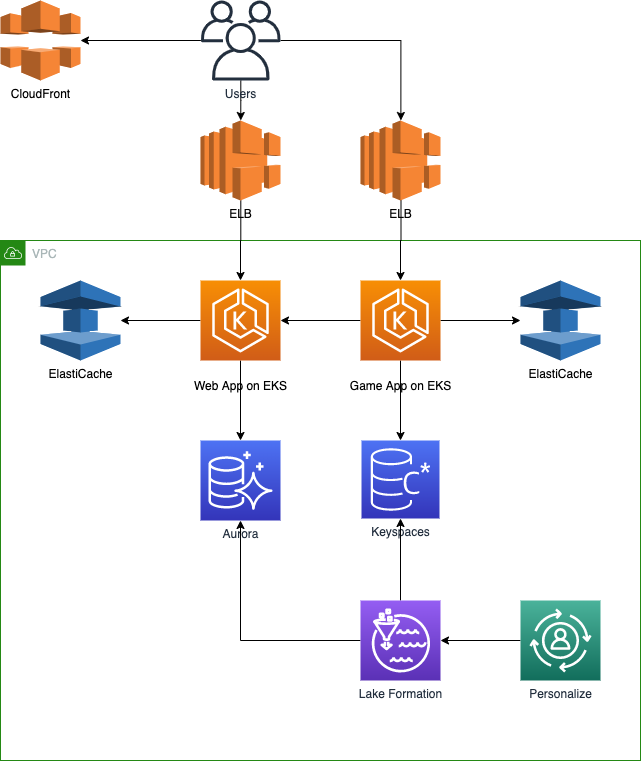
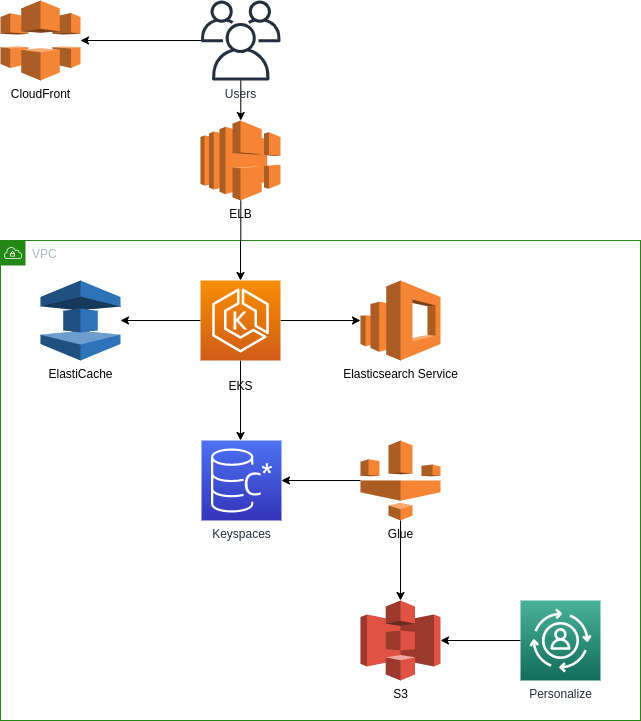
...

diff --git a/plan-a/README.md b/plan-a/README.md
@@ -27,132 +27,104 @@ This is only for one region, like China. If they decide to launch other regions,
 
 ![img](./aws-interview-architecture-overview.png)
 
-![img](./aws-interview-architecture-database.png)
-
 ## Design Details 
 
-### Aurora for web app
+### Keyspaces
 
-Description:
-- Transation data, ex: orders, payments
-- Write less than read
-- Compatible with game v1 mysql database
-- Data Migration easy
-- Low threshold for mysql developers
-- We can setup more replicas for scaling read capacity and performance in one region
+![img](./aws-interview-architecture-keyspaces.png)
 
-Benefits:
-- High Performance and Scalability
-  - Get 5X the throughput of standard MySQL and 3X the throughput of standard PostgreSQL.
-  - This performance is on par with commercial databases, at 1/10th the cost.
-  - You can easily scale your database deployment up and down from smaller to larger instance types as your needs change, or let Aurora Serverless handle scaling automatically for you.
-  - To scale read capacity and performance, you can add up to 15 low latency read replicas across three Availability Zones.
-  - Amazon Aurora automatically grows storage as needed, up to 64TB per database instance.
-- High Availability and Durability
-  - Amazon Aurora is designed to offer greater than 99.99% availability, replicating 6 copies of your data across 3 Availability Zones and backing up your data continuously to Amazon S3.
-  - It transparently recovers from physical storage failures; instance failover typically takes less than 30 seconds.
-  - You can also backtrack within seconds to a previous point in time, to recover from user errors. With Global Database, a single Aurora database can span multiple AWS regions to enable fast local reads and quick disaster recovery.
-- Highly Secure
-  - Amazon Aurora provides multiple levels of security for your database. 
-  - These include network isolation using Amazon VPC, encryption at rest using keys you create and control through AWS Key Management Service (KMS) and encryption of data in transit using SSL. 
-  - On an encrypted Amazon Aurora instance, data in the underlying storage is encrypted, as are the automated backups, snapshots, and replicas in the same cluster.
-- MySQL and PostgreSQL Compatible
-  - The Amazon Aurora database engine is fully compatible with existing MySQL and PostgreSQL open source databases, and adds compatibility for new releases regularly. 
-  - This means you can easily migrate MySQL or PostgreSQL databases to Aurora using standard MySQL or PostgreSQL import/export tools or snapshots. 
-  - It also means the code, applications, drivers, and tools you already use with your existing databases can be used with Amazon Aurora with little or no change.
-- Fully Managed
-  - Amazon Aurora is fully managed by Amazon Relational Database Service (RDS). 
-  - You no longer need to worry about database management tasks such as hardware provisioning, software patching, setup, configuration, or backups. 
-  - Aurora automatically and continuously monitors and backs up your database to Amazon S3, enabling granular point-in-time recovery. 
-  - You can monitor database performance using Amazon CloudWatch, Enhanced Monitoring, or Performance Insights, an easy-to-use tool that helps you quickly detect performance problems.
-- Migration Support
-  - MySQL and PostgreSQL compatibility make Amazon Aurora a compelling target for database migrations to the cloud. If you're migrating from MySQL or PostgreSQL, see our migration documentation for a list of tools and options. To migrate from commercial database engines, you can use the AWS Database Migration Service for a secure migration with minimal downtime.
+QAs:
 
-### Keyspaces for game app data about 1 year
+Q: They would store various data in database such as metadata, transaction data, session data, log data etc. 
+- Yes
 
-Description:
-- High read and write throughputs
-- High concurrent access
-- We can setup multiple datacenters for scaling read/write capacity and performance in one region
-- We can set replication factor 3 or high each datacenter for HA
-- Repairing data local datacenter everyday
-- Repairing data across datacenters weekly
+Q: Most of the operation of the data is quite simple query, but also has some complex query.
+- For quite simple query, it must be query by primay key, although we can make secondary index.
+- For some complex query, we can make materialized view or wide table.
 
-Benefits:
-- Compatible with Apache Cassandra
-  - Amazon Keyspaces enables you to use the Cassandra Query Language (CQL) API code, Cassandra drivers, and developer tools that you already use. 
-  - Updating applications to use Amazon Keyspaces is as easy as changing the Cassandra hostname to the Amazon Keyspaces service endpoint.
-- No servers to manage
-  - You don’t need to provision, patch, or manage servers, so you can focus on building better applications.
-  - Tables can scale up and down automatically, and you can optimize the cost of reads and writes based on your application’s traffic patterns by choosing either on-demand or provisioned capacity mode.
-- Performance at scale
-  - Consistent, single-digit-millisecond response times at any scale. 
-  - Build applications with virtually unlimited throughput and storage that can serve thousands of requests per second without the need for capacity planning. 
-  - You can monitor performance by using Amazon CloudWatch to help keep your applications running smoothly.
-- Highly available and secure
-  - Amazon Keyspaces offers a 99.99% availability SLA within an AWS Region. 
-  - Tables are encrypted by default and replicated three times in multiple AWS Availability Zones for high availability. 
-  - You can create continuous table backups with hundreds of terabytes of data with no performance impact to your application, and recover to any point in time in the preceding 35 days.
+Q: The number of concurrent access to database could be very large and not stable.
+- We could setup a small datacenter at beginning for saving cost
+- We could scale datacenter by adding new nodes, cassandra will balance data by itself. 
+
+Q: They want the performance won’t be degrade even the size of data grows up rapidly.
+- We could do read/write splitting, ex: setup 2 datacenters, one for read, one for write.
+
+Q: The history data in v1.0 database should be migrated to v2.0 database.
+- We could use [COPY FROM](https://docs.datastax.com/en/ddaccql/doc/cql/cql_reference/cqlsh_commands/cqlshCopyFrom.html) to import data with csv format
+
+Q: Their games just need 1 year data in most case, the history data would be used for analytics.
+- We could set TTL for the data which need only 1 year
+
+Q: They would like to develop the global uniform game in the future. So they need the database can be launched in many regions to speed up the data access of the players in the world.
+- We could setup new datacenters in many regions
+- Set correct datacenter in your applications
+
+
+### Elasticsearch Service
+
+![img](./aws-interview-architecture-elasticsearch.png)
+
+QAs:
+
+Q: How to load streaming data into Elasticsearch
+- Application write directly
+- Logstash
+- Lambda
+
+```python
+import boto3
+import json
+import requests
+from requests_aws4auth import AWS4Auth
+
+region = '' # e.g. us-west-1
+service = 'es'
+credentials = boto3.Session().get_credentials()
+awsauth = AWS4Auth(credentials.access_key, credentials.secret_key, region, service, session_token=credentials.token)
+
+host = '' # the Amazon ES domain, including https://
+headers = { "Content-Type": "application/json" }
+
+def lambda_handler(event, context):
+  #print("Received event: " + json.dumps(event, indent=2))
+
+  index = event['index']
+  url = host + '/' + index + '/_doc/'
+
+  operation = event['httpMethod']
+  if operation == 'DELETE':
+    id = event['id']
+    return requests.delete(url + id, auth=awsauth)
+  else:
+    document = event['doc']
+    return requests.post(url, auth=awsauth, json=document, headers=headers)     
+```
+
+Q: Most of the operation of the data is quite simple query, but also has some complex query.
+- We could use elasticsearch for complex query, ex: query friends by name, age or email
+- We could only use keyword type for string in elasticsearch for query if we do not care about fulltext search.
+
 
 ### ElatiCache
 
-Benefits:
-- Extreme performance
-  - Amazon ElastiCache works as an in-memory data store and cache to support the most demanding applications requiring sub-millisecond response times. 
-  - By utilizing an end-to-end optimized stack running on customer dedicated nodes, Amazon ElastiCache provides secure, blazing fast performance.
-- Fully Managed
-  - You no longer need to perform management tasks such as hardware provisioning, software patching, setup, configuration, monitoring, failure recovery, and backups. 
-  - ElastiCache continuously monitors your clusters to keep your workloads up and running so that you can focus on higher value application development.
-- Scalable
-  - Amazon ElastiCache can scale-out, scale-in, and scale-up to meet fluctuating application demands. 
-  - Write and memory scaling is supported with sharding. 
-  - Replicas provide read scaling.
+QAs:
+
+Q: They would like to develop the global uniform game in the future. So they need the database can be launched in many regions to speed up the data access of the players in the world.
+- We could load some data (lookup, static, session or hot data) from cassandra into Redis Cluster to speed up the data access
+
 
 ### Glue for ETL
 
-Benefits:
-- Less hassle
-  - AWS Glue is integrated across a wide range of AWS services, meaning less hassle for you when onboarding. 
-  - AWS Glue natively supports data stored in Amazon Aurora and all other Amazon RDS engines, Amazon Redshift, and Amazon S3, as well as common database engines and databases in your Virtual Private Cloud (Amazon VPC) running on Amazon EC2.
-- Cost effective
-  - AWS Glue is serverless. There is no infrastructure to provision or manage. AWS Glue handles provisioning, configuration, and scaling of the resources required to run your ETL jobs on a fully managed, scale-out Apache Spark environment. You pay only for the resources used while your jobs are running.
-- More power
-  - AWS Glue automates much of the effort in building, maintaining, and running ETL jobs. AWS Glue crawls your data sources, identifies data formats, and suggests schemas and transformations. 
-  - AWS Glue automatically generates the code to execute your data transformations and loading processes.
+QAs:
 
-### Lake Formation for history data
+Q: Their games just need 1 year data in most case, the history data would be used for analytics.
+- We could archive history data into S3 with csv format for analytics, like recommendation feature. [Connect to Cassandra Data in AWS Glue Jobs Using JDBC](https://www.cdata.com/kb/tech/cassandra-jdbc-aws-glue.rst)
 
-Benefits:
-- Build data lakes quickly
-  - With Lake Formation, you can move, store, catalog, and clean your data faster. 
-  - You simply point Lake Formation at your data sources, and Lake Formation crawls those sources and moves the data into your new Amazon S3 data lake. 
-  - Lake Formation organizes data in S3 around frequently used query terms and into right-sized chunks to increase efficiency. 
-  - Lake Formation also changes data into formats like Apache Parquet and ORC for faster analytics. 
-  - In addition, Lake Formation has built-in machine learning to deduplicate and find matching records (two entries that refer to the same thing) to increase data quality.
-- Simplify security management
-  - You can use Lake Formation to centrally define security, governance, and auditing policies in one place, versus doing these tasks per service, and then enforce those policies for your users across their analytics applications. 
-  - Your policies are consistently implemented, eliminating the need to manually configure them across security services like AWS Identity and Access Management and AWS Key Management Service, storage services like S3, and analytics and machine learning services like Redshift, Athena, and (in beta) EMR for Apache Spark. 
-  - This reduces the effort in configuring policies across services and provides consistent enforcement and compliance.
-- Provide self-service access to data
-  - With Lake Formation you build a data catalog that describes the different data sets that are available along with which groups of users have access to each. 
-  - This makes your users more productive by helping them find the right data set to analyze. By providing a catalog of your data with consistent security enforcement, Lake Formation makes it easier for your analysts and data scientists to use their preferred analytics service.
-  - They can use EMR for Apache Spark (in beta), Redshift, or Athena on diverse data sets now housed in a single data lake. Users can also combine these services without having to move data between silos.
 
 ### Personalize for recommendation
 
-Benefits and features:
-- No machine learning experience required
-  - Significant machine learning expertise is typically required to build effective personalization models. 
-  - Amazon Personalize includes AutoML capabilities that eliminate this challenge by taking care of the machine learning for you.
-- Continuous learning to improve performance
-  - Learn from every user interaction and continually improve your user engagement. 
-  - Amazon Personalize automatically tracks the performance of key business metrics and retrains models based on the latest, up-to-date user and item data. 
-  - The closed feedback loop enables Amazon Personalize to continuously calibrate to individual preferences and deliver dynamic, personalized experiences.
-- Based on the same technology used at Amazon.com
-  - Amazon Personalize includes algorithms that are based on over twenty years of personalization experience and developed expertise used in running the Amazon.com retail business. 
-  - Personalize will automatically select the best algorithm base on your specific datasets.
- 
-# References 
+QAs:
 
-- [Amazon Aurora](https://amazonaws-china.com/rds/aurora/?nc1=h_ls)
-- [Connect to Cassandra Data in AWS Glue Jobs Using JDBC](https://www.cdata.com/kb/tech/cassandra-jdbc-aws-glue.rst)
+Q: They would like to add recommendation feature based on relationships between information such as player interests, friends, and purchase history etc.
+- Yes
+ 
